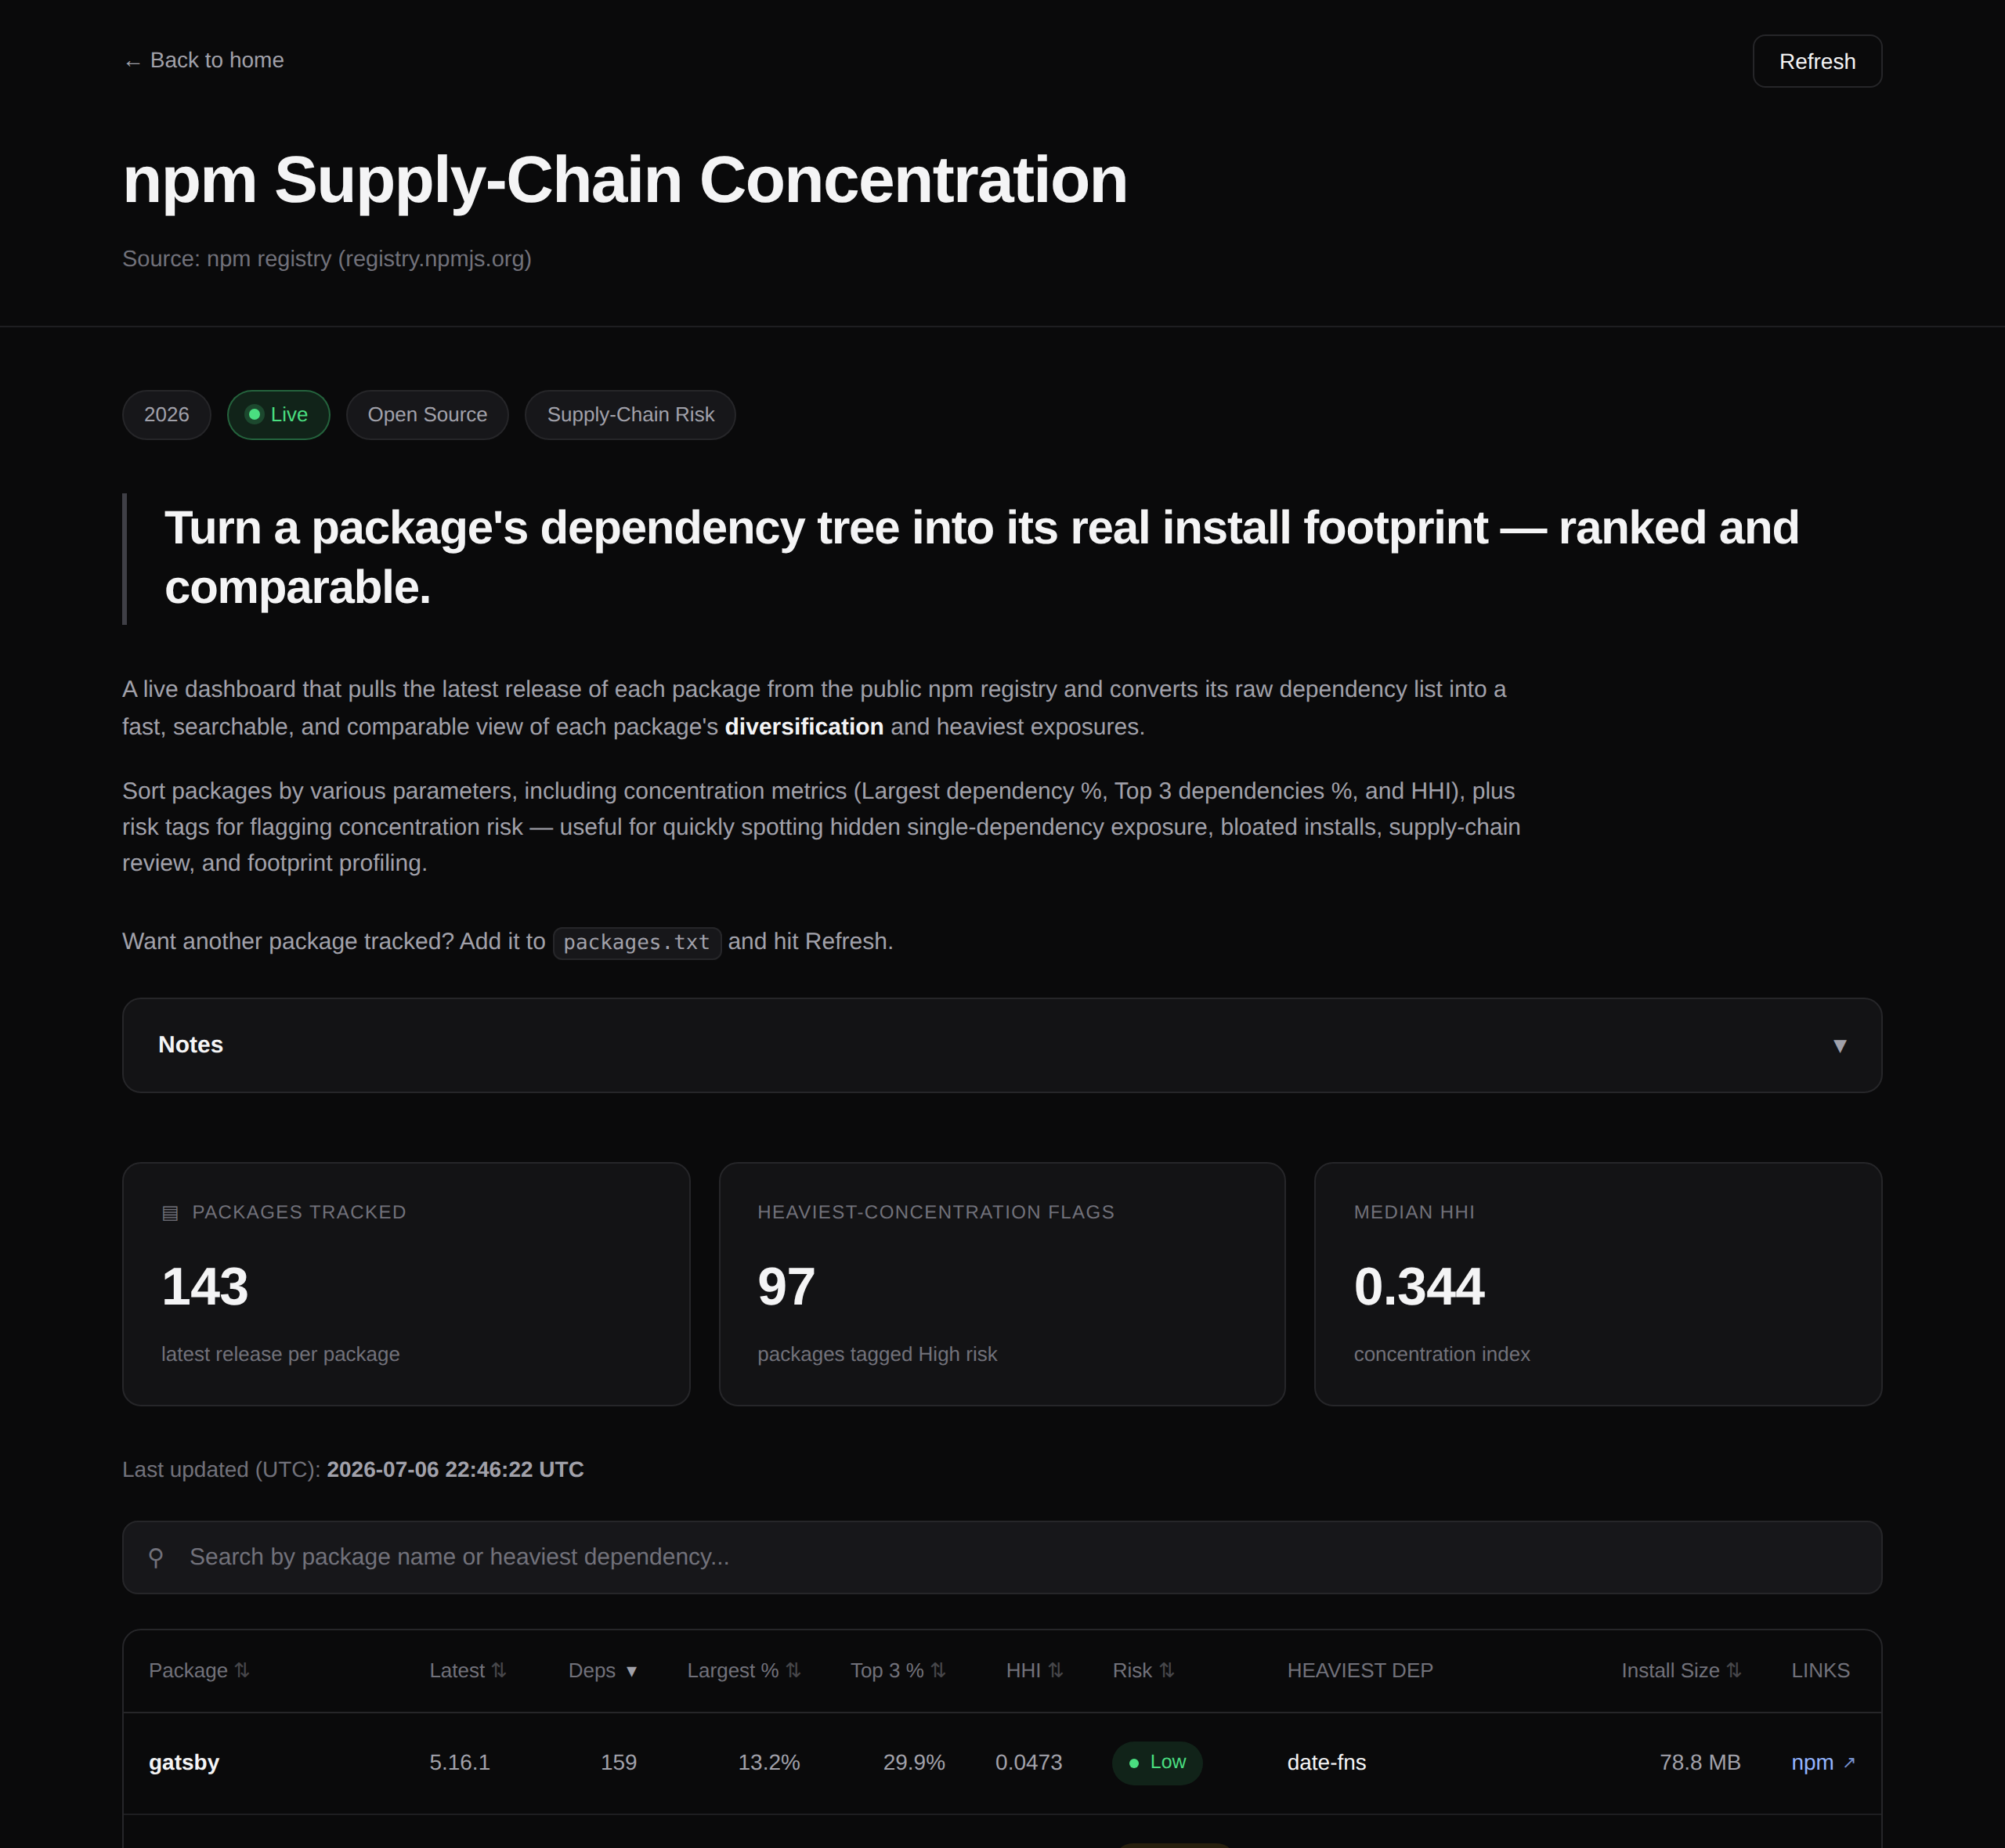
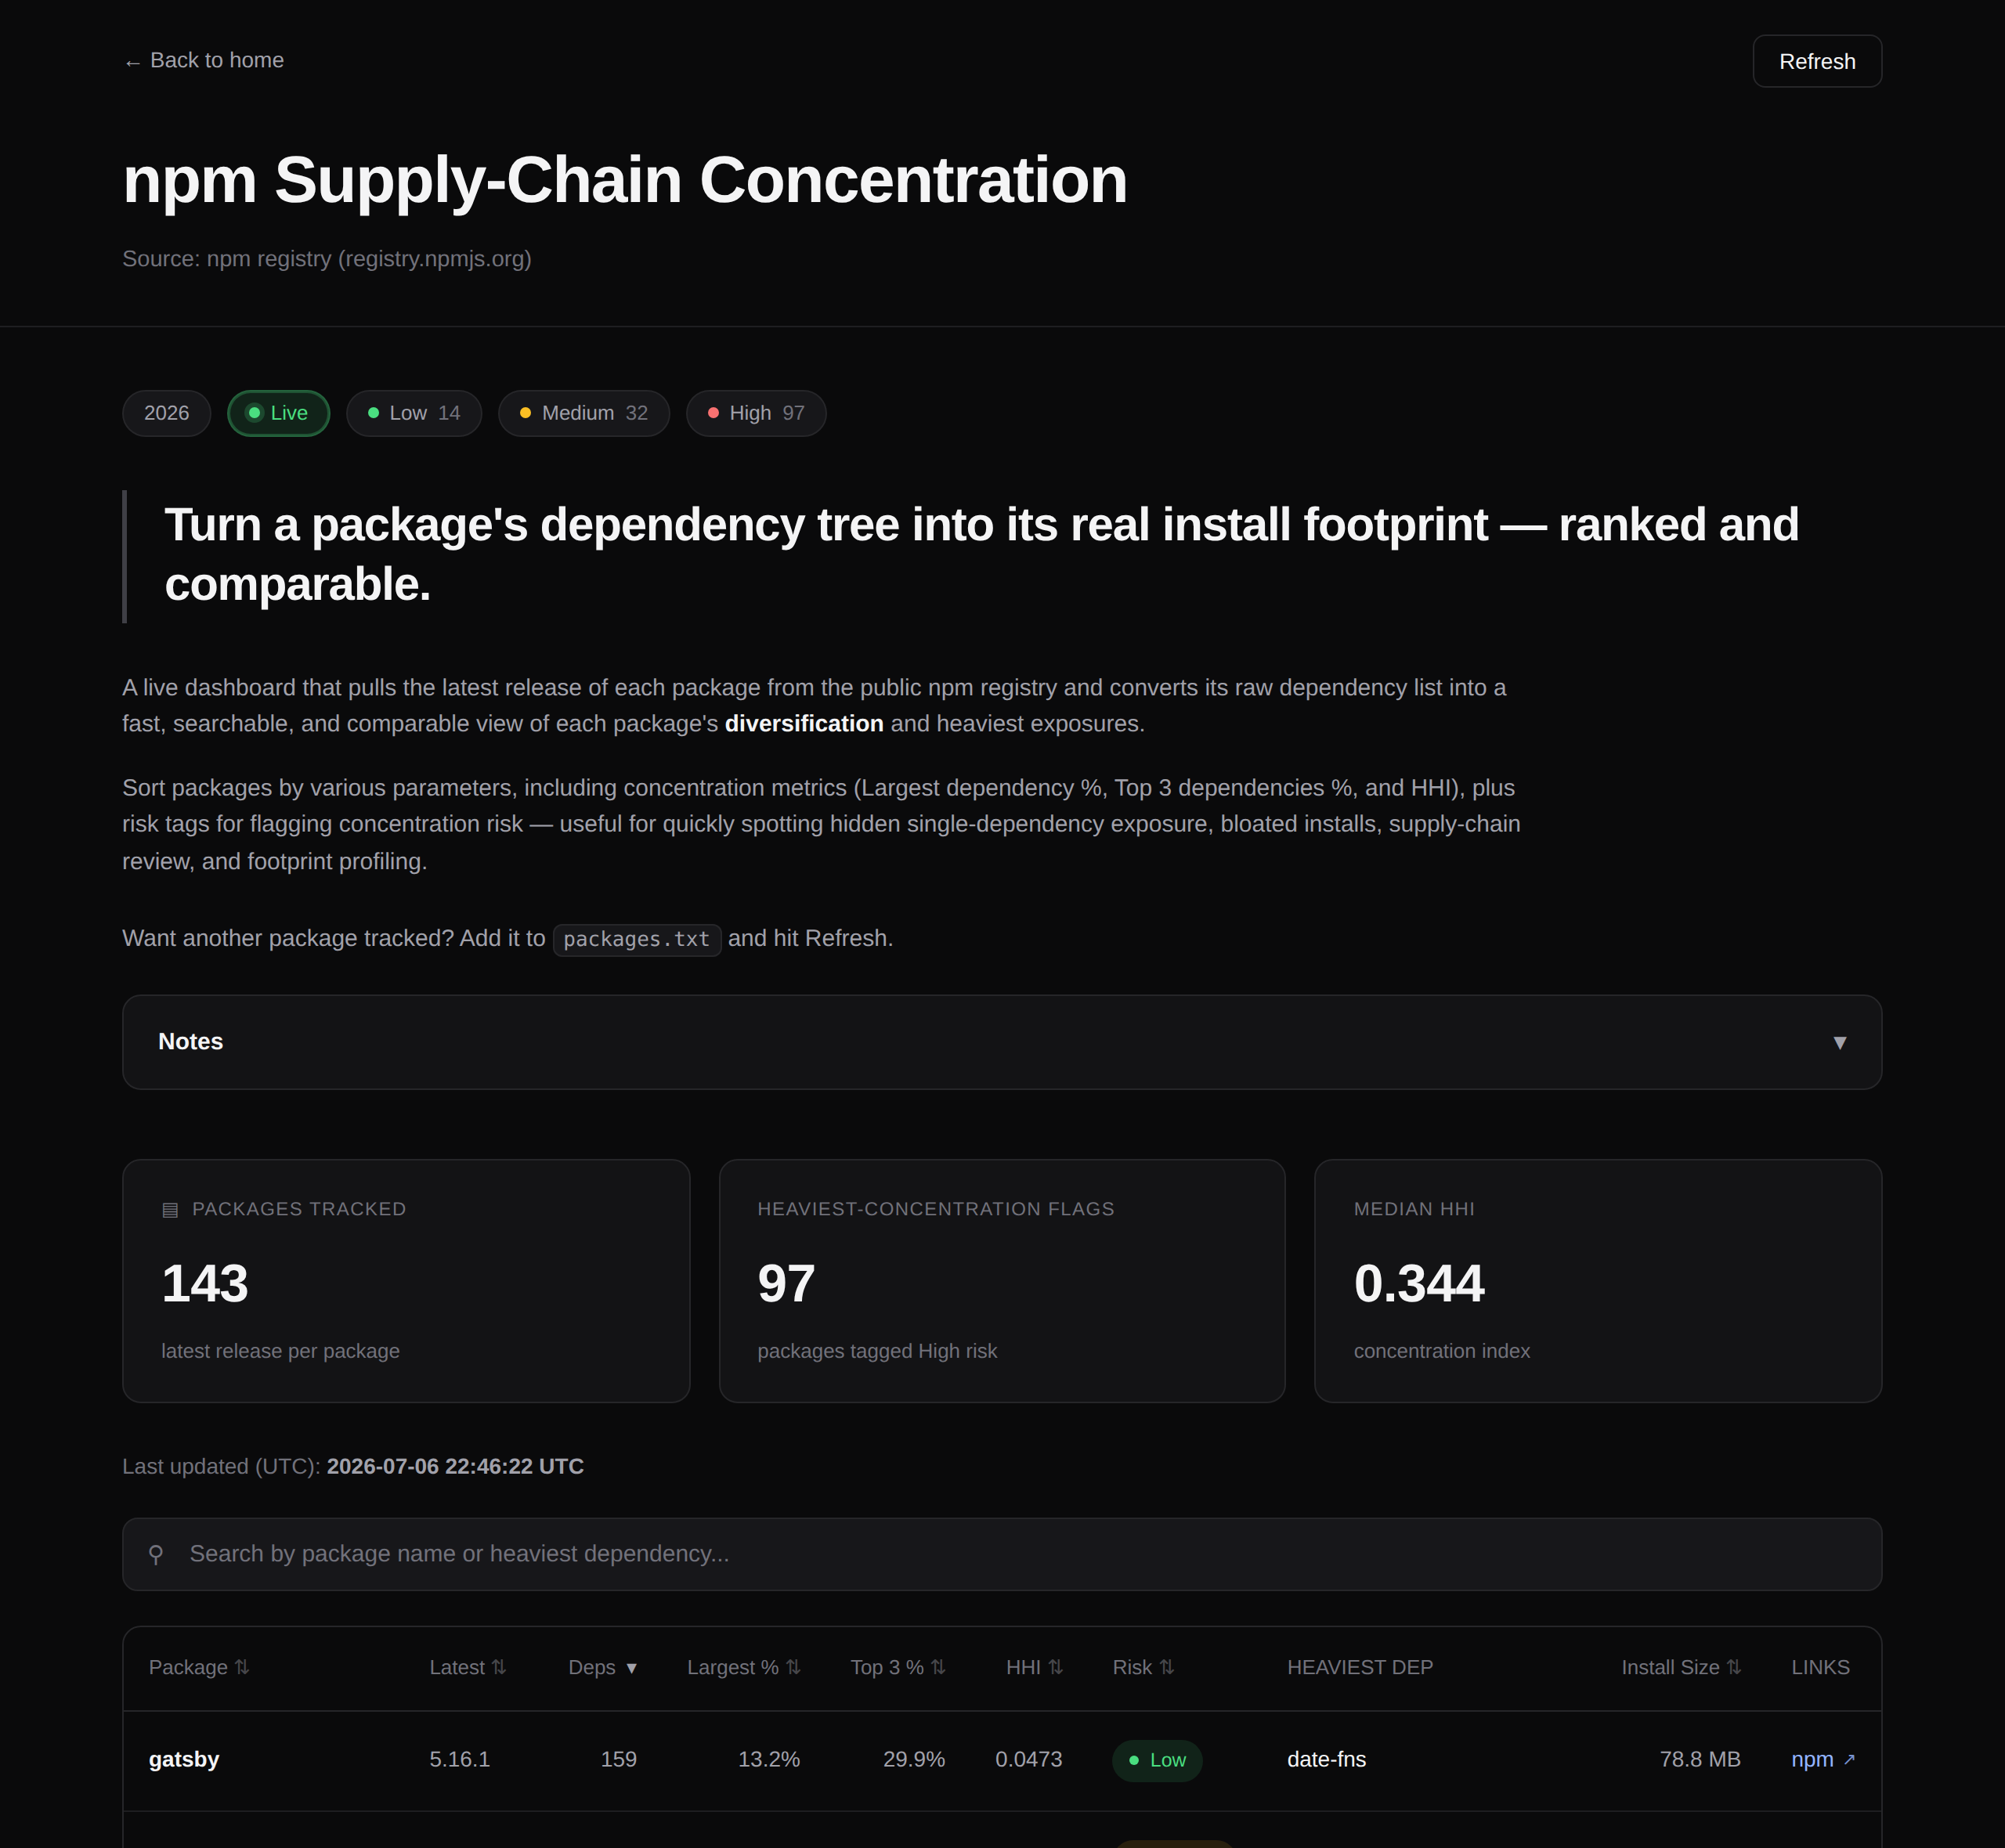
Make the top chips clickable risk filters
The Live / Low / Medium / High chips under the title now filter the table by
concentration risk: single-select with per-chip live counts, colored dots
matching the RAG badges, 'Live' resets to all, and they combine with search
and column sorting.

Claude-Session: https://claude.ai/code/session_0144PGXTPVrcQ1yf1n2QDkmv

diff --git a/web/app.js b/web/app.js
@@ -6,6 +6,7 @@ const RISK_CLASS = { Low: "rag-low", Medium: "rag-med", High: "rag-high" };
 let ALL = [];
 let sortKey = "deps";
 let sortDir = "desc"; // 'asc' | 'desc'
+let riskFilter = "all"; // 'all' | 'Low' | 'Medium' | 'High'
 
 function fmtBytes(n) {
   if (!n && n !== 0) return "—";
@@ -47,6 +48,9 @@ function sortRecords(rows) {
 function render() {
   const q = document.getElementById("searchInput").value.trim().toLowerCase();
   let rows = ALL;
+  if (riskFilter !== "all") {
+    rows = rows.filter((r) => r.risk === riskFilter);
+  }
   if (q) {
     rows = rows.filter(
       (r) =>
@@ -58,7 +62,10 @@ function render() {
 
   const tbody = document.getElementById("tbody");
   if (!rows.length) {
-    tbody.innerHTML = `<tr><td colspan="10" class="empty">No packages match "${esc(q)}".</td></tr>`;
+    const note = q
+      ? `No ${riskFilter === "all" ? "" : riskFilter + "-risk "}packages match "${esc(q)}".`
+      : `No ${riskFilter}-risk packages.`;
+    tbody.innerHTML = `<tr><td colspan="10" class="empty">${note}</td></tr>`;
   } else {
     tbody.innerHTML = rows
       .map(
@@ -79,8 +86,9 @@ function render() {
       .join("");
   }
 
+  const suffix = riskFilter === "all" ? "" : ` · ${riskFilter} risk`;
   document.getElementById("count").textContent =
-    `Showing ${rows.length} of ${ALL.length} packages`;
+    `Showing ${rows.length} of ${ALL.length} packages${suffix}`;
 
   document.querySelectorAll("th.sortable").forEach((th) => {
     th.classList.remove("sort-asc", "sort-desc");
@@ -97,6 +105,22 @@ function applyData(data) {
   document.getElementById("statHigh").textContent = data.summary.high_risk_count;
   document.getElementById("statHhi").textContent = data.summary.median_hhi.toFixed(3);
   document.getElementById("updated").textContent = fmtUpdated(data.generated_at);
+
+  // per-chip counts
+  const counts = { Low: 0, Medium: 0, High: 0 };
+  ALL.forEach((r) => (counts[r.risk] = (counts[r.risk] || 0) + 1));
+  document.querySelectorAll(".tag-count").forEach((el) => {
+    el.textContent = counts[el.dataset.count] ?? 0;
+  });
+
+  render();
+}
+
+function setRiskFilter(next) {
+  riskFilter = next;
+  document.querySelectorAll("#filters button").forEach((btn) => {
+    btn.classList.toggle("is-active", btn.dataset.risk === riskFilter);
+  });
   render();
 }
 
@@ -122,6 +146,16 @@ async function loadData() {
 
 function wireUp() {
   document.getElementById("searchInput").addEventListener("input", render);
+
+  document.querySelectorAll("#filters button").forEach((btn) => {
+    btn.addEventListener("click", () => {
+      // clicking the active non-"all" chip toggles back to "Live" (all)
+      const next = btn.dataset.risk === riskFilter && riskFilter !== "all"
+        ? "all"
+        : btn.dataset.risk;
+      setRiskFilter(next);
+    });
+  });
 
   document.querySelectorAll("th.sortable").forEach((th) => {
     th.addEventListener("click", () => {

diff --git a/web/styles.css b/web/styles.css
@@ -93,20 +93,50 @@ body {
   padding: 5px 13px;
   border-radius: 999px;
   font-size: 13px;
+  font-family: inherit;
+  line-height: 1.4;
 }
+button.tag {
+  cursor: pointer;
+  display: inline-flex;
+  align-items: center;
+  gap: 7px;
+  transition: background 0.15s, border-color 0.15s, color 0.15s;
+}
+button.tag:hover { color: var(--text); border-color: #3a3a3f; }
+button.tag:focus-visible { outline: 2px solid #3f3f46; outline-offset: 2px; }
+
 .tag-live {
   color: var(--green);
   border-color: rgba(74, 222, 128, 0.35);
   background: var(--green-bg);
-  display: inline-flex;
-  align-items: center;
-  gap: 7px;
 }
 .tag-live .dot {
   width: 7px; height: 7px; border-radius: 50%;
   background: var(--green);
   box-shadow: 0 0 0 3px rgba(74, 222, 128, 0.2);
 }
+
+/* filter chips — colored dot matches the RAG badge for that risk level */
+.fdot { width: 7px; height: 7px; border-radius: 50%; display: inline-block; }
+.fdot.low { background: var(--green); }
+.fdot.med { background: var(--amber); }
+.fdot.high { background: var(--red); }
+.tag-count { color: var(--muted-2); font-variant-numeric: tabular-nums; }
+
+.tag-filter.is-active {
+  color: var(--text);
+  border-color: #52525b;
+  background: #232327;
+}
+.tag-filter.is-active .tag-count { color: var(--muted); }
+.tag-live.is-active { box-shadow: 0 0 0 1px rgba(74, 222, 128, 0.25) inset; }
+.tag-live:not(.is-active) {
+  color: var(--muted);
+  background: var(--panel-2);
+  border-color: var(--border);
+}
+.tag-live:not(.is-active) .dot { background: var(--muted-2); box-shadow: none; }
 
 /* ---- hero ---- */
 .hero {

diff --git a/web/index.html b/web/index.html
@@ -20,11 +20,12 @@
   </header>
 
   <main class="wrap">
-    <div class="tags">
-      <span class="tag">2026</span>
-      <span class="tag tag-live"><span class="dot"></span> Live</span>
-      <span class="tag">Open Source</span>
-      <span class="tag">Supply-Chain Risk</span>
+    <div class="tags" id="filters">
+      <span class="tag tag-static">2026</span>
+      <button type="button" class="tag tag-live is-active" data-risk="all"><span class="dot"></span> Live</button>
+      <button type="button" class="tag tag-filter" data-risk="Low"><span class="fdot low"></span> Low <span class="tag-count" data-count="Low"></span></button>
+      <button type="button" class="tag tag-filter" data-risk="Medium"><span class="fdot med"></span> Medium <span class="tag-count" data-count="Medium"></span></button>
+      <button type="button" class="tag tag-filter" data-risk="High"><span class="fdot high"></span> High <span class="tag-count" data-count="High"></span></button>
     </div>
 
     <blockquote class="hero">

diff --git a/README.md b/README.md
@@ -40,6 +40,10 @@ The **risk tag** buckets the HHI with the U.S. DOJ / FTC merger-guideline thresh
 A high score is the software analogue of single-name concentration risk: most of what you
 install — and most of your supply-chain surface — rides on one package.
 
+The **filter chips** under the title (Live / Low / Medium / High) filter the table by risk
+level — each shows its live count, "Live" resets to all — and they combine with the search
+box and column sorting.
+
 ## Run it
 
 No dependencies beyond Python 3.8+ (standard library only).